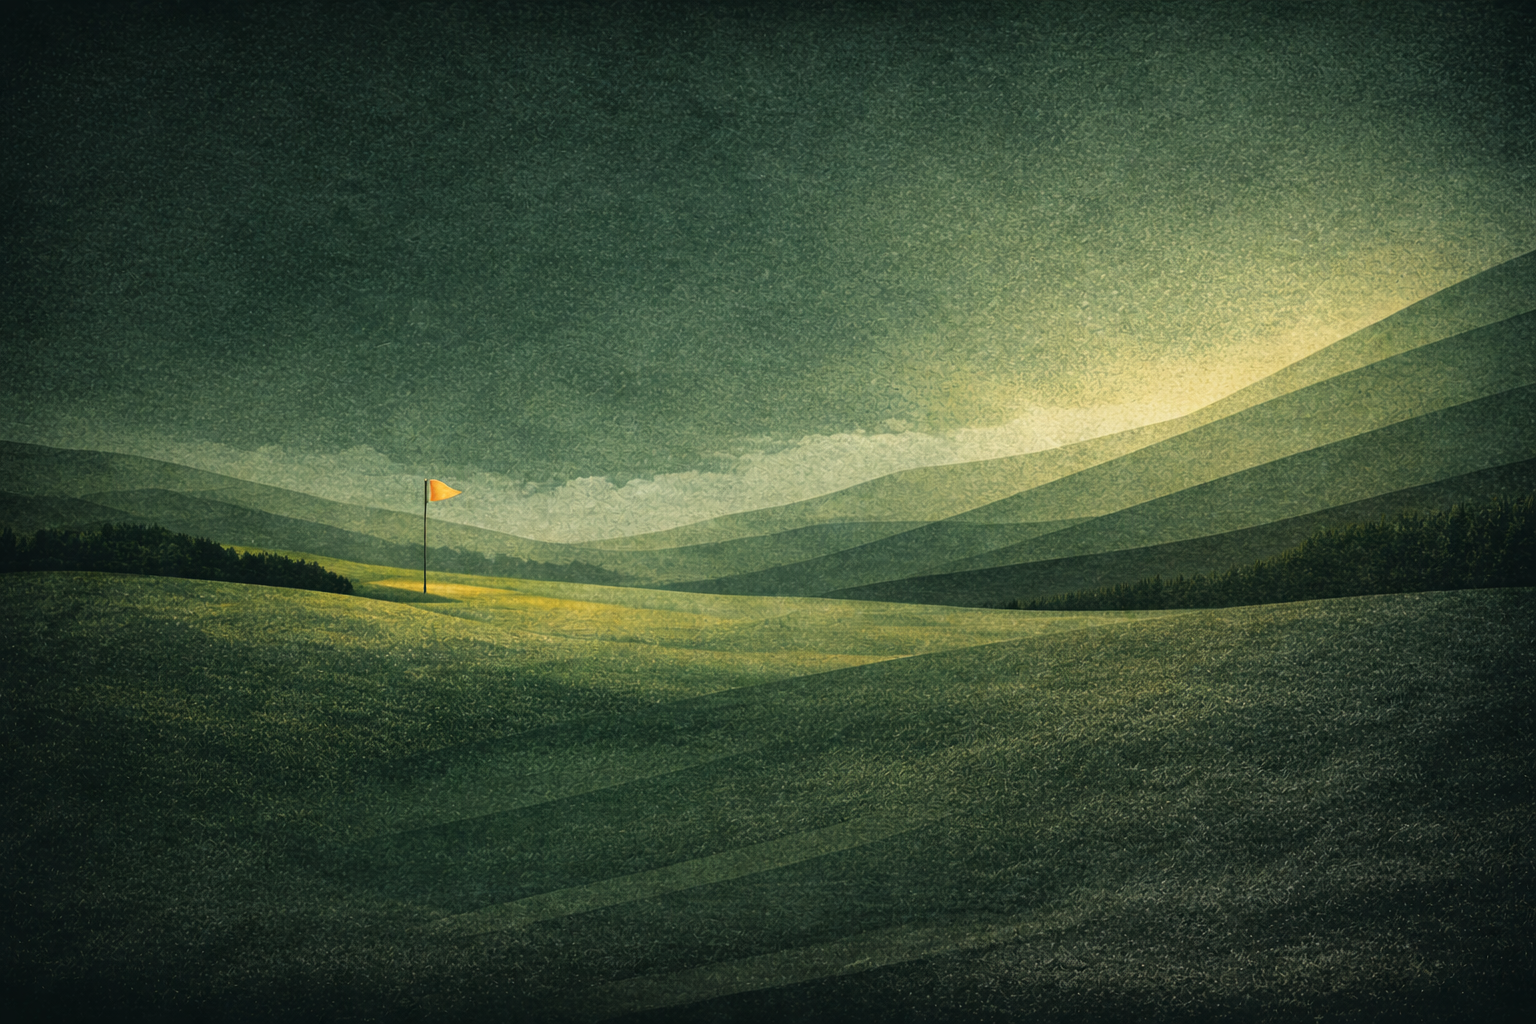
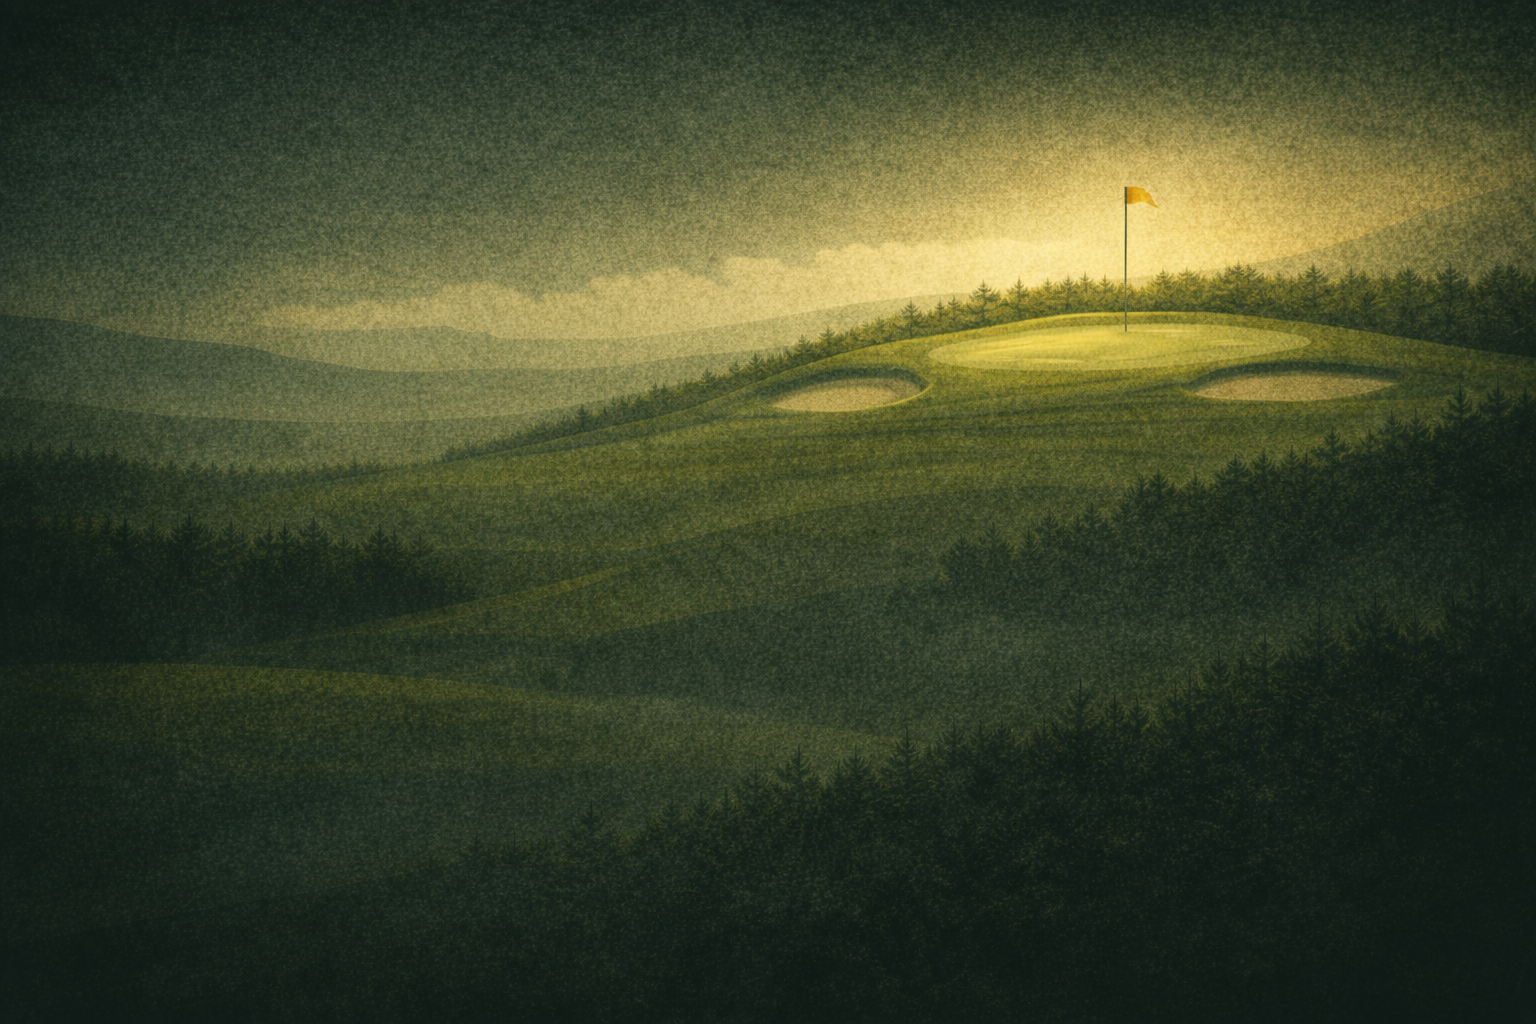
Session Intelligence Background applied

diff --git a/src/App.tsx b/src/App.tsx
@@ -2386,42 +2386,112 @@ function App({
     [selectedClub, shots],
   )
 
-  const selectedClubLiveSummary = useMemo(
-    () =>
-      summarizeReviewClub(
-        selectedClub,
-        shots,
-        savedSessions,
-        liveSessionId,
-      ),
-    [liveSessionId, savedSessions, selectedClub, shots],
-  )
-
-  const selectedClubIncludedShotCount = useMemo(
-    () => shots.filter((shot) => shot.club === selectedClub && shot.included).length,
+  const selectedClubIncludedShots = useMemo(
+    () => shots.filter((shot) => shot.club === selectedClub && shot.included),
     [selectedClub, shots],
   )
 
-  const selectedClubMidSignal = useMemo(() => {
-    const clubShots = shots.filter((shot) => shot.club === selectedClub && shot.included)
-    if (clubShots.length < 4) {
-      return 'Getting a read on this club...'
-    }
-    const firstHalf = clubShots.slice(Math.floor(clubShots.length / 2))
-    const secondHalf = clubShots.slice(0, Math.floor(clubShots.length / 2))
-    const firstBias = averageNumbers(firstHalf.map(offlineValue))
-    const secondBias = averageNumbers(secondHalf.map(offlineValue))
-    if (typeof firstBias === 'number' && typeof secondBias === 'number') {
-      const delta = secondBias - firstBias
-      if (delta > 2.5) {
-        return 'Direction is starting to drift right.'
+  const sessionShotWindow = useMemo(() => {
+    const carry = selectedClubIncludedShots
+      .map(carryValue)
+      .filter((value): value is number => typeof value === 'number')
+    const offline = selectedClubIncludedShots
+      .map(offlineValue)
+      .filter((value): value is number => typeof value === 'number')
+
+    const carryRange =
+      carry.length >= 2
+        ? `${Math.min(...carry).toFixed(1)} to ${Math.max(...carry).toFixed(1)} yd`
+        : carry.length === 1
+          ? `${carry[0].toFixed(1)} yd`
+          : 'Building...'
+
+    const offlineRange = (() => {
+      if (offline.length < 2) {
+        return offline.length === 1 ? `${formatOfflineValue(offline[0])} yd` : 'Building...'
       }
-      if (delta < -2.5) {
-        return 'Direction is starting to drift left.'
-      }
+      const min = Math.min(...offline)
+      const max = Math.max(...offline)
+      const left = `${Math.abs(min).toFixed(1)}L`
+      const right = `${Math.abs(max).toFixed(1)}R`
+      return `${left} to ${right}`
+    })()
+
+    const rightCount = offline.filter((value) => value > 1).length
+    const leftCount = offline.filter((value) => value < -1).length
+    const considered = rightCount + leftCount
+    const bias =
+      considered < 4
+        ? 'Neutral'
+        : rightCount >= leftCount + 2
+          ? 'Right'
+          : leftCount >= rightCount + 2
+            ? 'Left'
+            : 'Neutral'
+
+    return {
+      carryRange,
+      offlineRange,
+      bias,
+      sampleReady: selectedClubIncludedShots.length >= 4,
     }
-    return 'Pattern is starting to settle, but keep feeding it swings.'
-  }, [selectedClub, shots])
+  }, [selectedClubIncludedShots])
+
+  const sessionMissPattern = useMemo(() => {
+    const recent = selectedClubIncludedShots.slice(0, Math.min(9, selectedClubIncludedShots.length))
+    const offline = recent
+      .map(offlineValue)
+      .filter((value): value is number => typeof value === 'number')
+
+    const rightCount = offline.filter((value) => value > 1).length
+    const leftCount = offline.filter((value) => value < -1).length
+    const considered = rightCount + leftCount
+    const dominantSide = rightCount >= leftCount ? 'right' : 'left'
+    const dominantCount = dominantSide === 'right' ? rightCount : leftCount
+    const dominanceRatio = considered > 0 ? dominantCount / considered : 0
+    const strongPattern = considered >= 6 && dominanceRatio >= 0.67
+
+    const countLine =
+      considered >= 4
+        ? `${dominantCount} of last ${considered} ${dominantSide} of target`
+        : 'Not enough miss signal yet'
+
+    const repeatLine =
+      considered < 4
+        ? 'Need more included shots.'
+        : strongPattern
+          ? 'Repeating miss pattern.'
+          : 'Miss is more mixed than repeating.'
+
+    const causeLine = (() => {
+      if (!strongPattern) {
+        return null
+      }
+
+      const recentFaceTarget = averageNumbers(recent.map(faceToTargetValue))
+      const recentHla = averageNumbers(
+        recent.map((shot) => shot.horizontalLaunchAngleDegrees),
+      )
+      const recentFacePath = averageNumbers(recent.map(faceToPathValue))
+
+      if (
+        (typeof recentFaceTarget === 'number' && Math.abs(recentFaceTarget) >= 2) ||
+        (typeof recentHla === 'number' && Math.abs(recentHla) >= 2)
+      ) {
+        return 'Start line driving it.'
+      }
+      if (typeof recentFacePath === 'number' && Math.abs(recentFacePath) >= 2) {
+        return 'Face-to-path tilt is contributing.'
+      }
+      return null
+    })()
+
+    return {
+      countLine,
+      repeatLine,
+      causeLine,
+    }
+  }, [selectedClubIncludedShots])
 
   const sessionShotGroups = useMemo(() => {
     const byClub = new Map<Club, Shot[]>()
@@ -2562,9 +2632,6 @@ function App({
         </section>
 
         <section className="session-intelligence-heatmap" aria-label="Active club heatmap">
-          <div className="session-intelligence-section-title">
-            {getClubLabel(selectedClub)} dispersion
-          </div>
           {sessionIntelligencePoints.length === 0 ? (
             <p className="support-card-copy">No included shots for this club yet.</p>
           ) : (
@@ -2573,51 +2640,38 @@ function App({
         </section>
 
         <section className="session-intelligence-signal" aria-label="Session signal">
-          {selectedClubIncludedShotCount < 4 ? (
-            <p>Getting a read on this club...</p>
-          ) : selectedClubIncludedShotCount < 8 ? (
-            <div className="session-component-scores">
-              <p>{selectedClubMidSignal}</p>
-              {selectedClubLiveSummary && (
-                <p className="support-card-copy" style={{ margin: 0 }}>
-                  Early signal: {strongestComponentLabel(selectedClubLiveSummary.componentScores, 'high')} is holding best so far.
-                </p>
+          <div className="session-intelligence-intel-grid">
+            <article className="session-intelligence-intel-col">
+              <h3>Shot Window</h3>
+              {sessionShotWindow.sampleReady ? (
+                <div className="session-intelligence-intel-list">
+                  <div className="component-row">
+                    <span>Carry range</span>
+                    <span>{sessionShotWindow.carryRange}</span>
+                  </div>
+                  <div className="component-row">
+                    <span>Offline range</span>
+                    <span>{sessionShotWindow.offlineRange}</span>
+                  </div>
+                  <div className="component-row">
+                    <span>Miss bias</span>
+                    <span>{sessionShotWindow.bias}</span>
+                  </div>
+                </div>
+              ) : (
+                <p className="support-card-copy">Getting a read on this club...</p>
               )}
-            </div>
-          ) : selectedClubLiveSummary ? (
-            <div className="session-component-scores">
-              <div className="component-row">
-                <span>Score</span>
-                <span>{formatScore(selectedClubLiveSummary.caddieScore)}</span>
+            </article>
+
+            <article className="session-intelligence-intel-col">
+              <h3>Miss Pattern</h3>
+              <div className="session-intelligence-intel-list">
+                <p>{sessionMissPattern.countLine}</p>
+                <p>{sessionMissPattern.repeatLine}</p>
+                {sessionMissPattern.causeLine && <p>{sessionMissPattern.causeLine}</p>}
               </div>
-              <div className="component-row">
-                <span>Call</span>
-                <span>{selectedClubLiveSummary.caddieCall}</span>
-              </div>
-              <div className="component-row">
-                <span>{componentLabel('distanceWindow')}</span>
-                <span>{formatScore(selectedClubLiveSummary.componentScores.distanceWindow)}</span>
-              </div>
-              <div className="component-row">
-                <span>{componentLabel('directionWindow')}</span>
-                <span>{formatScore(selectedClubLiveSummary.componentScores.directionWindow)}</span>
-              </div>
-              <div className="component-row">
-                <span>{componentLabel('flightQuality')}</span>
-                <span>{formatScore(selectedClubLiveSummary.componentScores.flightQuality)}</span>
-              </div>
-              <div className="component-row">
-                <span>{componentLabel('patternStability')}</span>
-                <span>{formatScore(selectedClubLiveSummary.componentScores.patternStability)}</span>
-              </div>
-              <div className="component-row">
-                <span>{componentLabel('dataConfidence')}</span>
-                <span>{formatScore(selectedClubLiveSummary.componentScores.dataConfidence)}</span>
-              </div>
-            </div>
-          ) : (
-            <p>Getting a read on this club...</p>
-          )}
+            </article>
+          </div>
         </section>
 
         <details className="session-shot-data">

diff --git a/src/pages/SessionIntelligencePage.css b/src/pages/SessionIntelligencePage.css
@@ -1,3 +1,44 @@
+.session-intelligence-page {
+  position: relative;
+  min-height: 100vh;
+  isolation: isolate;
+}
+
+.session-intelligence-page::before {
+  content: '';
+  position: fixed;
+  inset: 0;
+  background-image: url('../assets/Backgrounds/golfscene1.png');
+  background-position: center;
+  background-repeat: no-repeat;
+  background-size: cover;
+  opacity: 0.36;
+  z-index: 0;
+  pointer-events: none;
+}
+
+.session-intelligence-page::after {
+  content: '';
+  position: fixed;
+  inset: 0;
+  background:
+    linear-gradient(
+      90deg,
+      rgba(9, 15, 12, 0.78) 0%,
+      rgba(12, 21, 16, 0.62) 42%,
+      rgba(12, 20, 16, 0.36) 72%,
+      rgba(10, 17, 14, 0.22) 100%
+    ),
+    linear-gradient(180deg, rgba(15, 22, 18, 0.16) 0%, rgba(8, 13, 10, 0.4) 100%);
+  z-index: 0;
+  pointer-events: none;
+}
+
+.session-intelligence-page > .session-intelligence-shell {
+  position: relative;
+  z-index: 1;
+}
+
 .session-intelligence-shell {
   box-sizing: border-box;
   width: 100%;
@@ -154,6 +195,48 @@
   font-weight: 700;
 }
 
+.session-intelligence-intel-grid {
+  display: grid;
+  grid-template-columns: minmax(0, 1fr) minmax(0, 1fr);
+  gap: 14px;
+}
+
+.session-intelligence-intel-col {
+  min-width: 0;
+  display: grid;
+  gap: 8px;
+}
+
+.session-intelligence-intel-col + .session-intelligence-intel-col {
+  border-left: 1px solid rgba(49, 66, 51, 0.62);
+  padding-left: 14px;
+}
+
+.session-intelligence-intel-col h3 {
+  margin: 0;
+  color: #eab308;
+  font-size: 14px;
+  letter-spacing: 0.04em;
+  text-transform: uppercase;
+  font-weight: 600;
+}
+
+.session-intelligence-intel-list {
+  display: grid;
+  gap: 6px;
+}
+
+.session-intelligence-intel-list p {
+  margin: 0;
+  color: #cfd8cd;
+  font-size: 15px;
+  line-height: 1.35;
+}
+
+.session-intelligence-intel-list .component-row {
+  font-size: 15px;
+}
+
 .session-shot-data-table-wrap {
   box-sizing: border-box;
   display: block;
@@ -183,5 +266,16 @@
 
   .session-shot-hero-value {
     font-size: clamp(24px, 5vw, 34px);
+  }
+
+  .session-intelligence-intel-grid {
+    grid-template-columns: 1fr;
+  }
+
+  .session-intelligence-intel-col + .session-intelligence-intel-col {
+    border-left: none;
+    border-top: 1px solid rgba(49, 66, 51, 0.62);
+    padding-left: 0;
+    padding-top: 10px;
   }
 }

diff --git a/src/pages/SessionIntelligencePage.tsx b/src/pages/SessionIntelligencePage.tsx
@@ -2,7 +2,11 @@ import App from '../App'
 import './SessionIntelligencePage.css'
 
 function SessionIntelligencePage() {
-  return <App forceSessionIntelligenceRoute />
+  return (
+    <div className="session-intelligence-page">
+      <App forceSessionIntelligenceRoute />
+    </div>
+  )
 }
 
 export default SessionIntelligencePage
